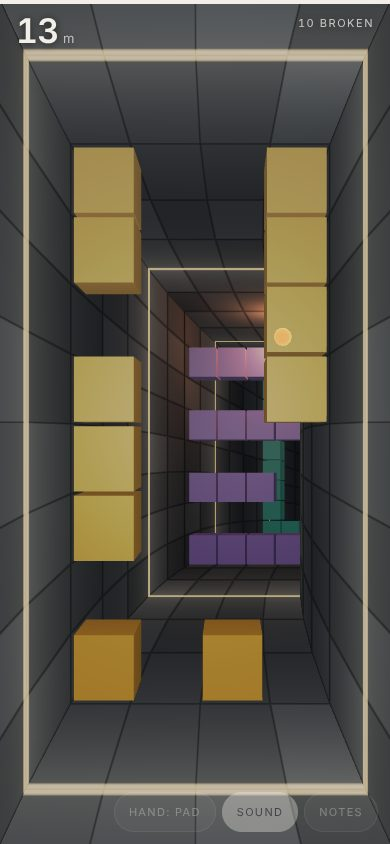
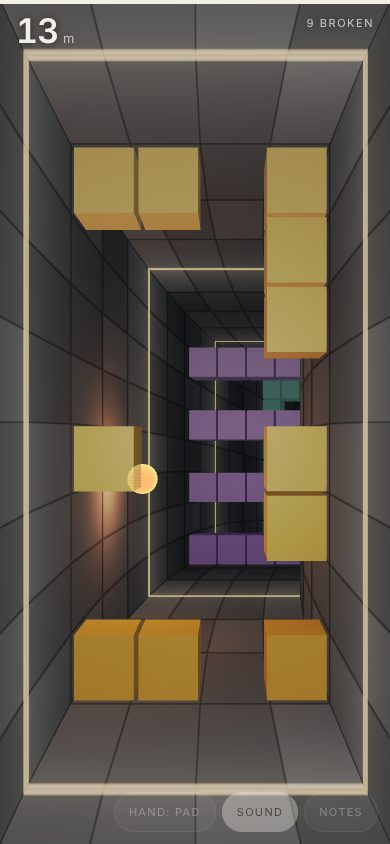
lab/volley: the fall is back toward you, not down the screen
You are lying at the bottom of a shaft throwing the ball up: it slows all
the way, and comes down again as fast as it left. How hard is how high.
Nothing else returns it (the come-back rule and the far limit are gone);
there is no floor, four walls the same. The stand-in throws hard enough to
get there. Tests and README follow.

Claude-Session: https://claude.ai/code/session_01XxjdrEubiC3ZZ3ppUeUc93

diff --git a/cells/lab/client/volley/sim.ts b/cells/lab/client/volley/sim.ts
@@ -5,10 +5,11 @@
  * the axis. You are a pane of glass across the whole section, at `z`; the ball goes on ahead of you into the slabs
  * and comes back.
  *
- * The ball is a ball thrown at a wall. It falls (G), so it goes in arcs and comes back off the floor; a bounce
- * keeps most of its speed and not all; it is as fast as it was thrown, and no faster; a throw's sideways motion
- * leaves it spinning, and the spin bends its flight until a bounce or the air takes it off. Thrown hard enough it
- * goes through a brick and on into the next. The one kindness: off a brick it always comes back at a fair pace.
+ * The tunnel is a shaft, and you are lying at the bottom of it looking up: the ball falls (G) back down toward
+ * you. Thrown up, it slows all the way, and if it meets nothing it stops and comes down again as fast as it left;
+ * so how hard it's thrown is how high it gets. A bounce keeps most of its speed and not all; a throw's sideways
+ * motion leaves it spinning, and the spin bends its flight until a bounce or the air takes it off. Thrown hard
+ * enough it goes through a brick and on up into the next.
  *
  * There is no paddle. Wherever the ball comes back through the glass, a hand has to be there, and what the hand is
  * doing is how (and how hard) the ball leaves. Three ways of being a hand (`mode`):
@@ -42,13 +43,12 @@ export const MODES = ['pad', 'swipe', 'catch'] as const;
 export type Mode = (typeof MODES)[number];
 
 // the ball
-export const G = 15;
-/** what a bounce keeps: off the floor, off the other walls, off a brick */
-const FLOOR = 0.86, WALL = 0.9, BRICK = 0.9;
+/** the fall: back down the shaft, toward the glass */
+export const G = 18;
+/** what a bounce keeps: off a wall, off a brick */
+const WALL = 0.9, BRICK = 0.9;
 /** a ball meeting a brick this fast (along the tunnel) goes through it, and keeps this much */
 export const THROUGH = 19, KEEPS = 0.8;
-/** off a brick or out of the dark, it comes back at least this fast */
-export const BACK = 10;
 /** spin: how much of a hand's sideways speed becomes it, the most there can be, how hard it bends the flight, and
  * how long it lasts */
 const SPIN_OF = 0.3, SPIN_MAX = 9, BEND = 1.3, SPIN_LIFE = 0.9;
@@ -159,7 +159,7 @@ export const speed = (b: Ball) => Math.hypot(b.vx, b.vy, b.vz);
 /** send the ball off from 'ready', leaning toward (ax, ay) (each -1..1 across the glass) */
 export function serve(s: Sim, ax = 0, ay = 0) {
   if (s.phase !== 'ready') return;
-  leave(s, 18 + Math.min(4, s.passed * 0.12), clamp(ax, -1, 1) * 5, clamp(ay, -1, 1) * 5 + 2.5, 0, 0);
+  leave(s, 20 + Math.min(4, s.passed * 0.12), clamp(ax, -1, 1) * 4, clamp(ay, -1, 1) * 4, 0, 0);
   s.phase = 'play';
   s.events.push({ kind: 'serve', ...at(s) });
 }
@@ -186,10 +186,10 @@ function leave(s: Sim, p: number, lx: number, ly: number, fvx: number, fvy: numb
   s.mark = null;
 }
 
-/** The ball's own motion for one step, with the tunnel's walls: falling, bent by its spin, bouncing. Returns how hard
+/** The ball's own motion for one step, with the shaft's walls: falling back toward you, bent by its spin, bouncing. Returns how hard
  * it struck a wall, if it did. (The game's step and the guess at where it will come back both use this.) */
 function fly(b: Ball, W: number, h: number): number {
-  b.vy -= G * h;
+  b.vz -= G * h;
   b.vx += b.sx * BEND * h; b.vy += b.sy * BEND * h;
   const fade = 1 - h / SPIN_LIFE; b.sx *= fade; b.sy *= fade;
   b.x += b.vx * h; b.y += b.vy * h; b.z += b.vz * h;
@@ -198,11 +198,7 @@ function fly(b: Ball, W: number, h: number): number {
   if (b.x < -hx && b.vx < 0) { b.x = -hx; struck = -b.vx; b.vx *= -WALL; b.sx *= 0.4; }
   if (b.x > hx && b.vx > 0) { b.x = hx; struck = b.vx; b.vx *= -WALL; b.sx *= 0.4; }
   if (b.y > hy && b.vy > 0) { b.y = hy; struck = b.vy; b.vy *= -WALL; b.sy *= 0.4; }
-  if (b.y < -hy && b.vy < 0) {
-    b.y = -hy; struck = -b.vy; b.vy *= -FLOOR; b.sy *= 0.4;
-    // (too little left to leave the floor: it rolls)
-    if (b.vy < 1.2) { b.vy = 0; struck = 0; }
-  }
+  if (b.y < -hy && b.vy < 0) { b.y = -hy; struck = -b.vy; b.vy *= -WALL; b.sy *= 0.4; }
   return struck;
 }
 
@@ -224,9 +220,6 @@ function tick(s: Sim) {
   }
   const struck = fly(b, s.W, h);
   if (struck > 2) s.events.push({ kind: 'wall', ...at(s), hard: struck });
-  // (a ball that threads everything is given back by the dark)
-  const near = s.slabs.find((k) => k.left > 0);
-  if (b.vz > 0 && b.z > (near ? near.z + GAP + 3 : s.z + 30)) b.vz = -Math.max(BACK, b.vz);
   // the bricks: of the slabs it's in, the brick it's deepest into
   const cw = s.W / s.cols;
   let hit: Slab | null = null, hc = 0, hr = 0, bd = R, nx = 0, ny = 0, nz = 0;
@@ -261,7 +254,6 @@ function tick(s: Sim) {
         b.vx -= (1 + BRICK) * vn * nx; b.vy -= (1 + BRICK) * vn * ny; b.vz -= (1 + BRICK) * vn * nz;
         b.x += nx * (R - bd); b.y += ny * (R - bd); b.z += nz * (R - bd);
         b.sx *= 0.4; b.sy *= 0.4;
-        if (b.vz < 0 && b.vz > -BACK) b.vz = -BACK;
       }
       if (broke) { hit.left--; s.broken++; }
       s.events.push({ kind: 'brick', x: cellX(s, hc), y: cellY(hr), z: hit.z, hue: hit.hue, row: hr, broke, through, hard });
@@ -344,7 +336,9 @@ function standIn(s: Sim) {
   }
   const dx = s.mark.x - p.x, dy = s.mark.y - p.y, dz = Math.max(1, s.mark.z - BRICK_T / 2 - R - s.z);
   // (the sideways speed that gets it there, at this power: a few rounds, since each depends on the other)
-  const aim = (pw: number) => { let lx = 0, ly = 0; for (let i = 0; i < 4; i++) { const T = dz / Math.sqrt(Math.max(pw * pw * 0.2, pw * pw - lx * lx - ly * ly)); lx = dx / T; ly = dy / T + (G * T) / 2; } return { lx, ly }; };
+  const aim = (pw: number) => { let lx = 0, ly = 0; for (let i = 0; i < 4; i++) { const vz = Math.sqrt(Math.max(pw * pw * 0.3, pw * pw - lx * lx - ly * ly)), rise = vz * vz - 2 * G * dz, T = rise > 0 ? (vz - Math.sqrt(rise)) / G : vz / G; lx = dx / T; ly = dy / T; } return { lx, ly }; };
+  // (and it has to get there at all: thrown up, it's slowing all the way)
+  const need = Math.sqrt(2 * G * dz) * 1.3;
   if (s.mode === 'pad') {
     const pw = power(s, 'pad', 0, p.speed), { lx, ly } = aim(pw);
     let ox = lx / (PAD_K * pw), oy = ly / (PAD_K * pw);
@@ -360,7 +354,7 @@ function standIn(s: Sim) {
     let f = 22, vx = 0, vy = f;
     for (let i = 0; i < 5; i++) {
       const { lx, ly } = aim(power(s, s.mode, f)), m = Math.hypot(lx, ly) || 1e-6;
-      f = clamp(m / CARRY[s.mode], s.mode === 'swipe' ? SWIPE_MIN * 1.3 : 8, 40);
+      f = clamp(Math.max(m / CARRY[s.mode], s.mode === 'swipe' ? (need - 9) / 0.75 : (need - 7) / 0.85), SWIPE_MIN * 1.3, 40);
       vx = (lx / m) * f; vy = (ly / m) * f;
     }
     if (s.phase === 'held') { release(s, -1, vx, vy); return; }

diff --git a/cells/lab/experiments.ts b/cells/lab/experiments.ts
@@ -34,7 +34,7 @@ export const EXPERIMENTS: Experiment[] = [
   },
   {
     id: 'volley', title: 'Volley', group: 'Play', tags: ['hci'],
-    blurb: 'A brick-breaker down a tunnel without end, with no paddle. The tunnel is the shape of your screen and the screen is a pane of glass across it; a bouncy ball goes on ahead into slabs of bricks and comes back (it falls, loses a little at each bounce, spins, and thrown hard enough goes straight through a brick), and wherever it comes back through the glass a hand has to be there. How fast your finger moves is how hard it goes. Three ways of being a hand, to try against each other: a resting finger as a round pad, a swipe through the ball, or catching it under a finger and flicking it away. Break most of a slab and the rest falls, and you go on down.',
+    blurb: 'A brick-breaker up a shaft without end, with no paddle. The tunnel is the shape of your screen and the screen is a pane of glass across it; you are lying on your back at the bottom of it, throwing a bouncy ball up into slabs of bricks; it falls back down to you (how hard you throw is how high it gets; it spins; thrown hard enough it goes straight through a brick), and wherever it comes back through the glass a hand has to be there. How fast your finger moves is how hard it goes. Three ways of being a hand, to try against each other: a resting finger as a round pad, a swipe through the ball, or catching it under a finger and flicking it away. Break most of a slab and the rest falls, and you go on down.',
     page: 'static/volley.html', preview: 'preview&seed=1&t=8', readme: 'static/volley.md',
     presets: [{ label: 'pad', query: 'hand=pad' }, { label: 'swipe', query: 'hand=swipe' }, { label: 'catch and flick', query: 'hand=catch' }, { label: 'no guide ring', query: 'guide=0' }, { label: 'watch', query: 'auto' }, { label: 'watch it caught and thrown', query: 'auto&hand=catch' }, { label: 'another tunnel', query: 'seed=7' }],
   },

diff --git a/cells/lab/client/volley/main.ts b/cells/lab/client/volley/main.ts
@@ -78,7 +78,7 @@ function scene(): Frame {
 function shatter(e: { x: number; y: number; z: number; hue: number; row: number }, n: number, toward: number) {
   const c = brickColour(e.hue, e.row), cw = sim.W / sim.cols;
   for (let i = 0; i < n && bits.length < 260; i++) {
-    bits.push({ x: e.x + (vr() - 0.5) * cw * 0.8, y: e.y + (vr() - 0.5) * CELL * 0.8, z: e.z + (vr() - 0.5) * BRICK_T, vx: (vr() - 0.5) * 6, vy: (vr() - 0.3) * 6, vz: toward + (vr() - 0.5) * 5, s: 0.12 + vr() * 0.26, life: 0.7 + vr() * 0.7, c });
+    bits.push({ x: e.x + (vr() - 0.5) * cw * 0.8, y: e.y + (vr() - 0.5) * CELL * 0.8, z: e.z + (vr() - 0.5) * BRICK_T, vx: (vr() - 0.5) * 6, vy: (vr() - 0.5) * 6, vz: toward + (vr() - 0.5) * 5, s: 0.12 + vr() * 0.26, life: 0.7 + vr() * 0.7, c });
   }
 }
 
@@ -230,8 +230,7 @@ function run(dt: number, now: number) {
     const b = bits[i];
     b.life -= dt;
     if (b.wake) { b.s *= 0.9; if (b.life <= 0) bits.splice(i, 1); continue; }
-    b.vy -= 15 * dt; b.x += b.vx * dt; b.y += b.vy * dt; b.z += b.vz * dt;
-    if (b.y < -H / 2 + b.s / 2) { b.y = -H / 2 + b.s / 2; b.vy = -b.vy * 0.35; b.vx *= 0.7; b.vz *= 0.7; }
+    b.vz -= 18 * dt; b.x += b.vx * dt; b.y += b.vy * dt; b.z += b.vz * dt;
     if (b.life < 0.25) b.s *= 0.86;
     if (b.life <= 0 || b.z < sim.z) bits.splice(i, 1);
   }

diff --git a/cells/lab/static/volley.md b/cells/lab/static/volley.md
@@ -1,6 +1,6 @@
 # Volley
 
-> A brick-breaker down a tunnel without end. There is no paddle: the screen is a pane of glass, and you return the ball with a hand on it.
+> A brick-breaker up a shaft without end, played lying on your back. There is no paddle: the screen is a pane of glass, and you throw the ball back up with a hand on it.
 
 ![Before the first ball](volley/v-ready.jpg)
 ![A ball in flight](volley/v-back.jpg)
@@ -9,17 +9,16 @@ The tunnel is the shape of your screen and runs away from you for ever. You are 
 
 Touch anywhere to send the ball off (it leans toward where you touched). The orange ring on the glass is where the ball is going to come through; it closes as the ball arrives.
 
-## A ball thrown at a wall
+## A ball thrown at the ceiling
 
-The ball is a bouncy ball, and the game is throwing it at a wall and getting it back.
+You are lying on your back at the bottom of a shaft, throwing a bouncy ball up at what's above you. Down is toward you.
 
-- **It falls.** It goes out in an arc and mostly comes back off the floor, so you throw up at what you want to hit and take the return low, or on the rise.
-- **A bounce keeps most of its speed, not all.** Nothing tops it up but your hand, so a rally is as fast as you make it.
-- **It is as fast as it was thrown.** How fast your finger is going is how hard the ball goes: a flick is a hard, flat throw; letting go of a still finger is a lob.
-- **Thrown hard enough, it goes through.** A ball meeting a brick square on and fast breaks it and carries on, a fifth slower, into the next: one good throw can take a line out of a slab, or two slabs. A softer ball comes off the brick. (The dark ones always turn it.)
-- **It spins.** The sideways motion of your finger leaves the ball spinning that way, and the spin bends its flight for about a second, or until a bounce takes most of it off. Flick up and across and it hooks.
-
-One kindness is kept from the arcade: off a brick, the ball always comes back at a fair pace, however softly it got there.
+- **It falls back.** Thrown up, the ball slows all the way; if it meets nothing it stops, hangs, and comes down again as fast as it left. Nothing else brings it back: there's no rule that returns it, only the fall.
+- **How hard is how high.** How fast your finger is going is how hard the ball goes, and so how far up the shaft it gets. A soft throw doesn't reach the bricks at all; a lob (letting go of a still finger) barely leaves your hand; a hard flick reaches the slab after next.
+- **It comes down harder off a brick.** A ball that meets the underside of a brick on the way up is turned, and then falls: the nearer the bricks, the quicker and sharper the volley.
+- **Thrown hard enough, it goes through.** A ball meeting a brick square on and fast breaks it and carries on up, a fifth slower, into the next: one good throw can take a line out of a slab, or two slabs. And it can come down on top of the slab it went through, and break its way back. (The dark bricks always turn it.)
+- **It spins.** The sideways motion of your finger leaves the ball spinning that way, and the spin bends its flight for about a second, or until a wall takes most of it off.
+- **The walls are just walls.** There is no floor: all four sides bounce the same, each keeping nine tenths.
 
 ## Three hands
 
@@ -38,7 +37,7 @@ A mouse is a hand wherever it is, button or no; letting the button go is letting
 From the glass, a ball going away and a ball coming back look nearly the same, and its depth is the thing you most need. Four things give it:
 
 - **Its light.** The ball lights the four walls round it, so there is a band of light on the tunnel at the ball's depth, moving with it. The walls are panelled on the bricks' own grid, which makes that band countable.
-- **The ring on the glass**, for the last second and a third of its flight: where it will come through, the fall, the bounces and the bend all reckoned in. `guide=0` takes it away, to see how much the rest carries.
+- **The ring on the glass**, for the last second and a third of its fall: where it will come through, the bounces and the bend reckoned in. `guide=0` takes it away, to see how much the rest carries.
 - **Its sound.** Each hit is placed left or right and is quieter with distance; the bricks ring higher toward the top of the tunnel.
 - **It is never hidden.** Behind a slab it is drawn faintly through whatever covers it.
 
@@ -59,6 +58,8 @@ Slab after slab, made from the seed: a frame, a cross, a chequer, bars, a window
 `seed` (a number, or a name like `moss-ford-7`), `hand` (`pad`, `swipe`, `catch`), `auto` (the stand-in plays), `t` (run on this many seconds first, the stand-in playing), `still` (and hold there), `guide=0`, `mute`, `preview` (the index's card). `window.__volley.probe()` reports the game and the renderer.
 
 ## Before this
+
+The third version's ball fell toward the bottom of the screen, like a ball thrown at a wall; it came back along the floor, and needed a rule to make it come back at all.
 
 The second version had the tunnel and the three hands, but its ball was an arcade one: weightless, always the same speed, a perfect mirror off everything.
 
